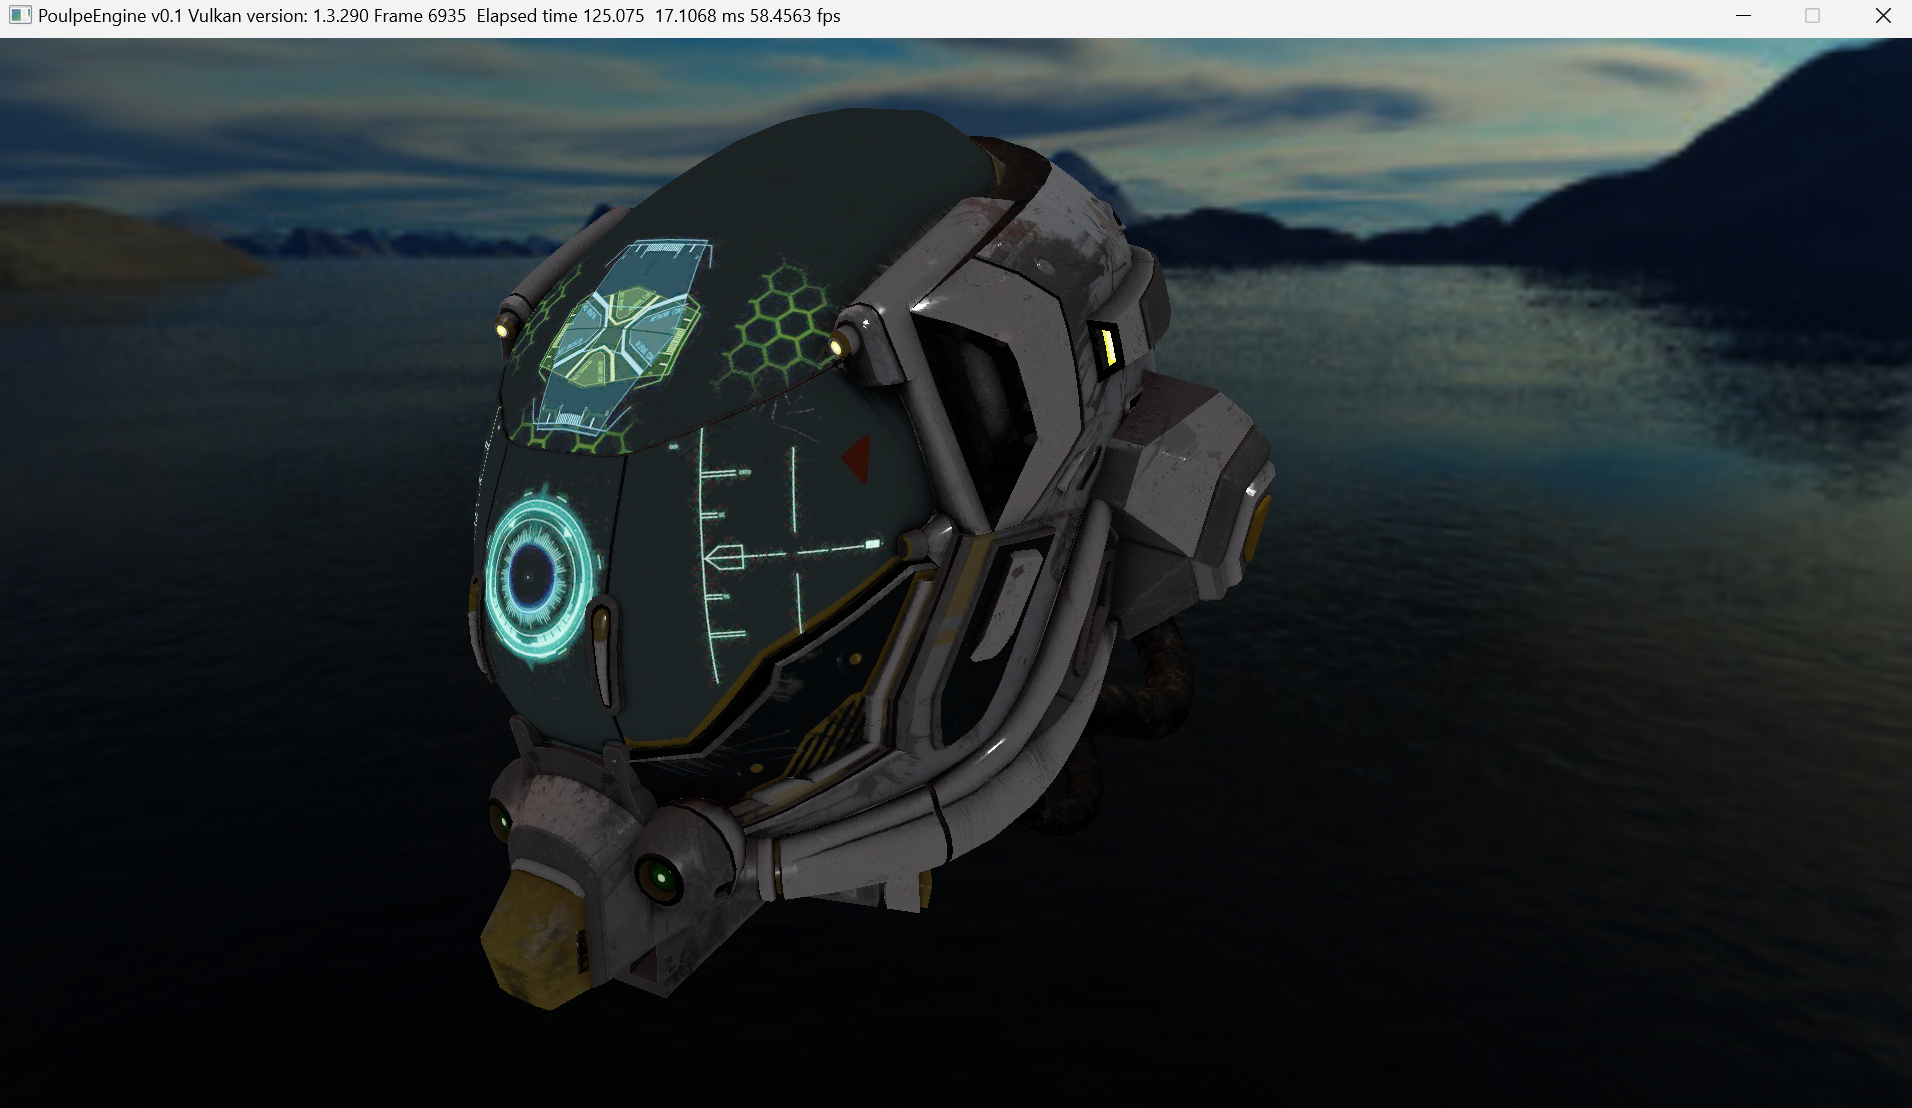
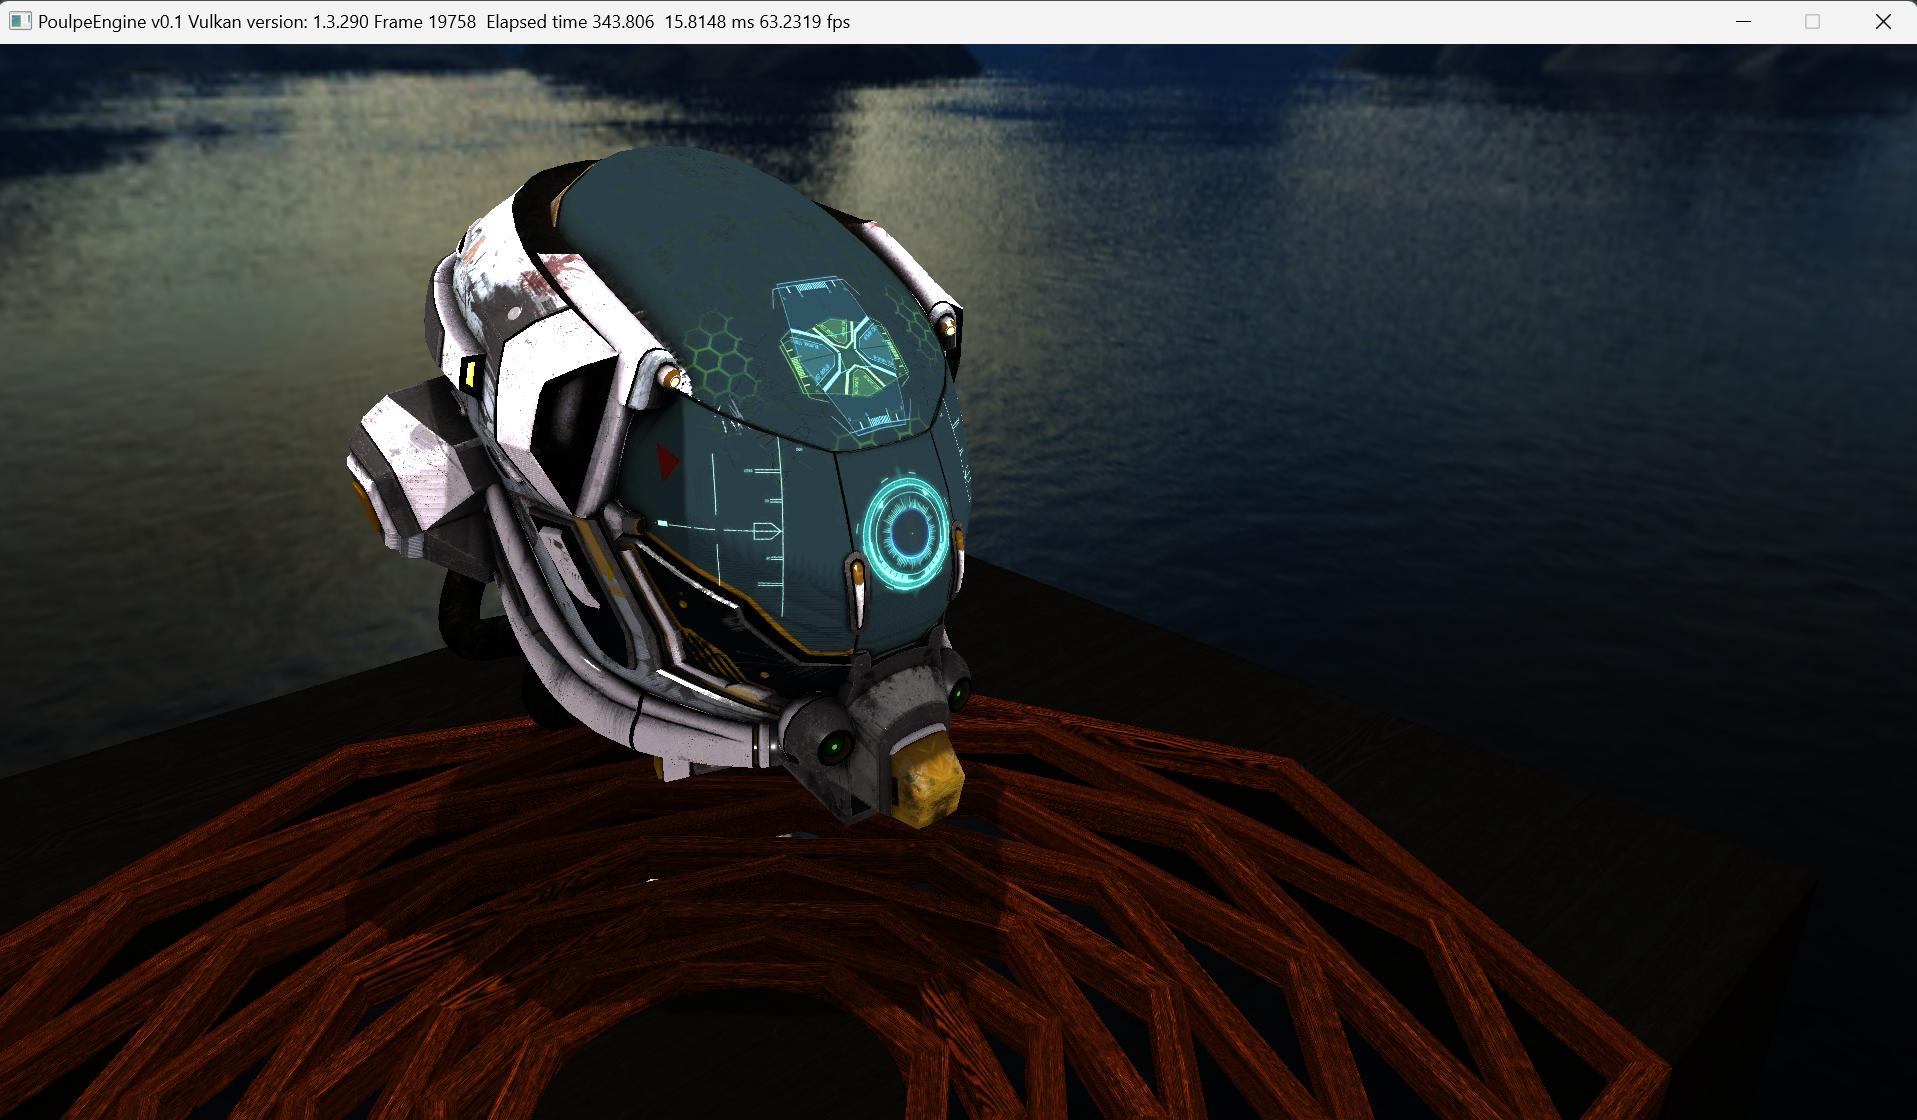
fix shadow map

diff --git a/src/Poulpe/Renderer/Vulkan/Renderer.cpp b/src/Poulpe/Renderer/Vulkan/Renderer.cpp
@@ -655,6 +655,9 @@ namespace Poulpe
     if (_entities.size() <= 0) {
       swapBufferEntities();
     };
+    if (_transparent_entities.size() <= 0) {
+      swapBufferTransparentEntities();
+    };
   }
 
   void Renderer::destroy()
@@ -773,6 +776,9 @@ namespace Poulpe
     if (!_entities_buffer.empty()) {
       swapBufferEntities();
     }
+    if (!_transparent_entities_buffer.empty()) {
+      swapBufferTransparentEntities();
+    }
   }
 
   void Renderer::setRayPick(
@@ -841,11 +847,11 @@ namespace Poulpe
   void Renderer::addTransparentEntity(Entity* entity, bool const is_last)
   {
     {
-      std::lock_guard guard(_mutex_entity_submit);
+      std::lock_guard guard(_mutex_transparent_entity_submit);
 
       _transparent_entities_buffer.emplace_back(entity);
 
-      _force_entities_buffer_swap = is_last;
+      _force_transparent_entities_buffer_swap = is_last;
     }
   }
 
@@ -885,11 +891,22 @@ namespace Poulpe
       copy(_entities_buffer.begin(), _entities_buffer.end(), back_inserter(_entities));
       _entities_buffer.clear();
 
+      _update_shadow_map = true;
+      _force_entities_buffer_swap = false;
+    }
+  }
+
+  void Renderer::swapBufferTransparentEntities()
+  {
+    if (_transparent_entities_buffer.size() < _transparent_entities_buffer_swap_treshold
+        && !_force_transparent_entities_buffer_swap) return;
+
+    {
       copy(_transparent_entities_buffer.begin(), _transparent_entities_buffer.end(), back_inserter(_transparent_entities));
       _transparent_entities_buffer.clear();
 
       _update_shadow_map = true;
-      _force_entities_buffer_swap = false;
+      _force_transparent_entities_buffer_swap = false;
     }
   }
 }

diff --git a/src/Poulpe/Renderer/Vulkan/Renderer.hpp b/src/Poulpe/Renderer/Vulkan/Renderer.hpp
@@ -191,8 +191,9 @@ namespace Poulpe
     void submit(DrawCommands const& drawCmds);
 
     void swapBufferEntities();
-
-  private:
+    void swapBufferTransparentEntities();
+  
+private:
     std::unique_ptr<VulkanAPI> _vulkan{ nullptr };
     VkSwapchainKHR _swapchain{ nullptr };
 
@@ -269,11 +270,16 @@ namespace Poulpe
     std::vector<VkSemaphore> _shadowmap_sema_img_available;
 
     std::vector<Entity*> _entities{};
-    std::vector<Entity*> _transparent_entities{};
     std::vector<Entity*> _entities_buffer{};
-    std::vector<Entity*> _transparent_entities_buffer{};
     unsigned int const _entities_buffer_swap_treshold{ 50 };
     bool _force_entities_buffer_swap{ false };
+    std::mutex _mutex_entity_submit;
+    
+    std::vector<Entity*> _transparent_entities{};
+    std::vector<Entity*> _transparent_entities_buffer{};
+    unsigned int const _transparent_entities_buffer_swap_treshold{ 50 };
+    bool _force_transparent_entities_buffer_swap{ false };
+    std::mutex _mutex_transparent_entity_submit;
 
     std::vector<VkSemaphore> _entities_sema_finished;
 
@@ -281,7 +287,6 @@ namespace Poulpe
     std::vector<VkFence> _fences_in_flight{};
 
     std::mutex _mutex_queue_submit;
-    std::mutex _mutex_entity_submit;
 
     DrawCommands _draw_cmds{_MAX_RENDER_THREAD};
   };

diff --git a/src/Poulpe/Renderer/Vulkan/VulkanAPI.cpp b/src/Poulpe/Renderer/Vulkan/VulkanAPI.cpp
@@ -2210,15 +2210,15 @@ namespace Poulpe {
     sampler_info.magFilter = VK_FILTER_LINEAR;
     sampler_info.minFilter = VK_FILTER_LINEAR;
     sampler_info.mipmapMode = VK_SAMPLER_MIPMAP_MODE_LINEAR;
-    sampler_info.addressModeU = VK_SAMPLER_ADDRESS_MODE_CLAMP_TO_EDGE;
+    sampler_info.addressModeU = VK_SAMPLER_ADDRESS_MODE_CLAMP_TO_BORDER;
     sampler_info.addressModeV = sampler_info.addressModeU;
     sampler_info.addressModeW = sampler_info.addressModeU;
     sampler_info.mipLodBias = 0.0f;
     sampler_info.minLod = 0.0f;
-    sampler_info.maxLod = 1.0f;
+    sampler_info.maxLod = VK_LOD_CLAMP_NONE;
     sampler_info.borderColor = VK_BORDER_COLOR_FLOAT_OPAQUE_WHITE;
-    sampler_info.compareEnable = VK_FALSE;
-    sampler_info.compareOp = VK_COMPARE_OP_ALWAYS;
+    sampler_info.compareEnable = VK_TRUE;
+    sampler_info.compareOp = VK_COMPARE_OP_LESS;
     sampler_info.anisotropyEnable = VK_FALSE;
     sampler_info.maxAnisotropy = 0.0f;
     

diff --git a/src/Poulpe/Manager/EntityManager.cpp b/src/Poulpe/Manager/EntityManager.cpp
@@ -317,13 +317,13 @@ namespace Poulpe
       _component_manager->add<MeshComponent>(entity->getID(), std::move(mesh));
       auto* entityNode = root_mesh_entity_node->addChild(new EntityNode(entity));
       
-      _renderer->addEntity(entityNode->getEntity(), is_last);
+      //_renderer->addEntity(entityNode->getEntity(), is_last);
 
-      //if (alpha_mode == 2.0) {
-      //  _renderer->addTransparentEntity(entityNode->getEntity(), is_last);
-      //} else {
-      //  _renderer->addEntity(entityNode->getEntity(), is_last);
-      //}
+      if (alpha_mode == 2.0) {
+        _renderer->addTransparentEntity(entityNode->getEntity(), is_last);
+      } else {
+        _renderer->addEntity(entityNode->getEntity(), is_last);
+      }
 
       if (is_last) {
         {

diff --git a/README.md b/README.md
@@ -23,7 +23,7 @@ Install the latest Vulkan SDK https://vulkan.lunarg.com/ and be sure to have the
 
 Compile shaders (Windows && Linux) : 
 ```
-bin/plpShadersCompilation.sh
+bin/shaders_compil.sh
 ```	
 
 List existing presets
